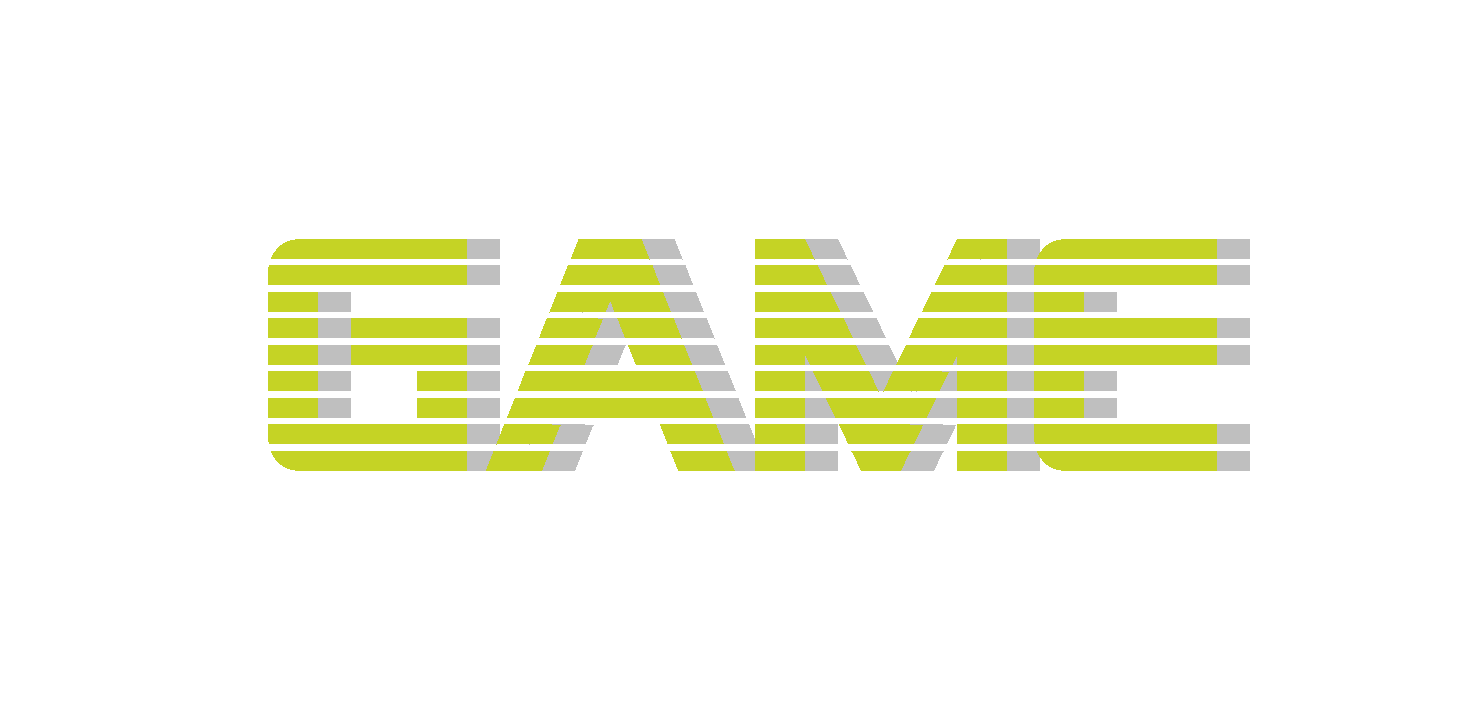
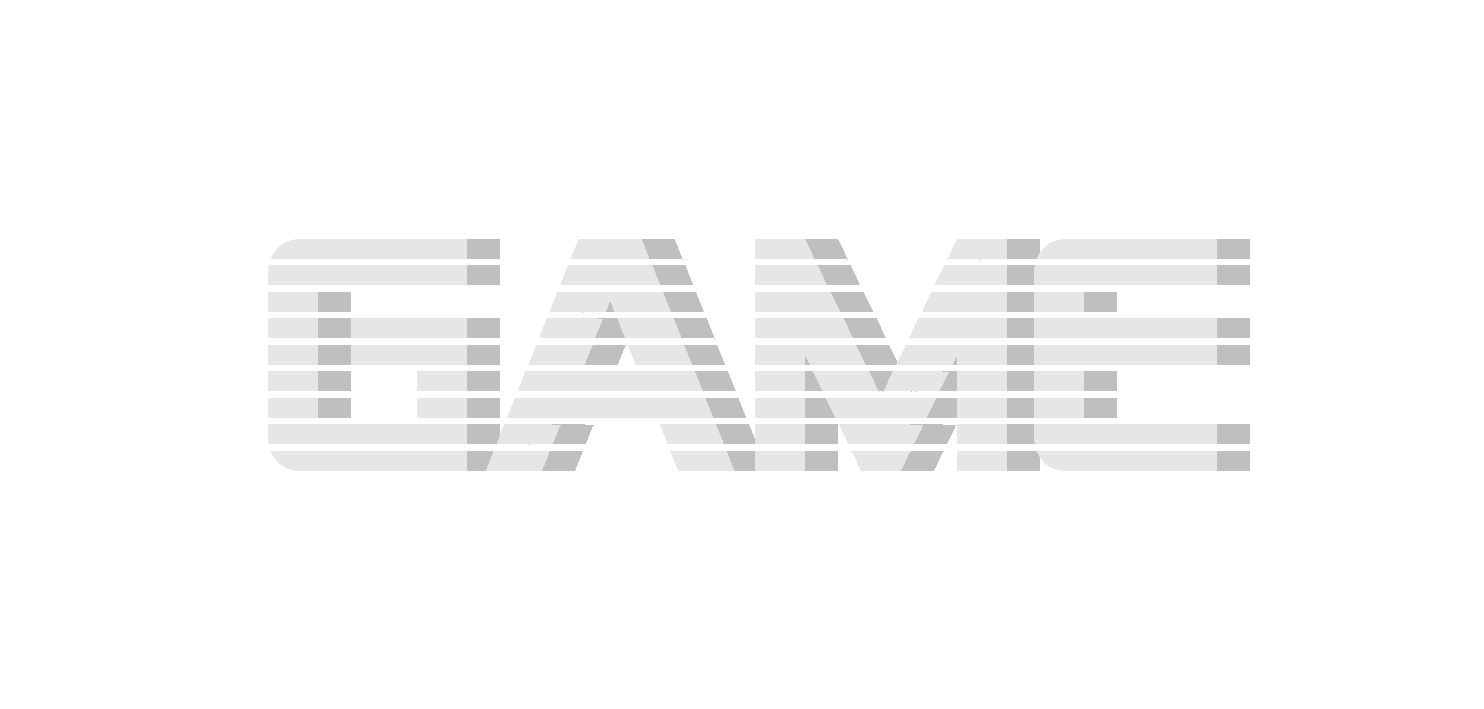
nav changes

Changed region(s): [[0.155, 0.3103, 0.8369, 0.6827]]

diff --git a/www/game.html b/www/game.html
@@ -46,7 +46,7 @@
           <ul class="navbar-nav ml-auto">
             <li class="nav-item active">
               <a class="nav-link" href="game.html">
-                  <img src="/imgs/gamenavbutton.png" width="90" height="40" class="d-inline-block align-top-left" alt="">
+                  <img src="/imgs/gamenavbuttonactive.png" width="90" height="40" class="d-inline-block align-top-left" alt="">
                 <span class="sr-only">(current)</span>
               </a>
             </li>
